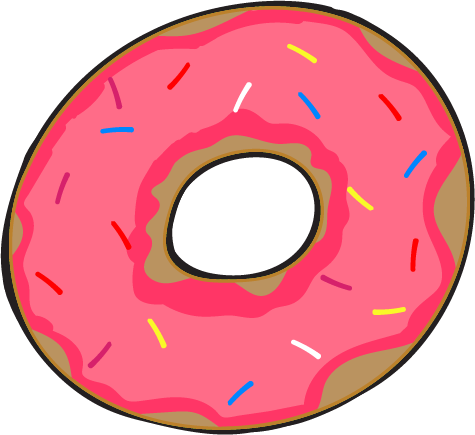
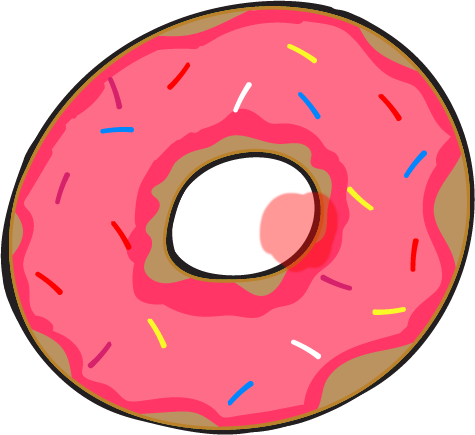
Test with remove

Changed region(s): [[0.5305, 0.4184, 0.7074, 0.6276]]

diff --git a/core/src/fr/formiko/tests/BlendGame.java b/core/src/fr/formiko/tests/BlendGame.java
@@ -1,69 +1,122 @@
 package fr.formiko.tests;
 
+import java.util.ArrayList;
+import java.util.List;
 import com.badlogic.gdx.ApplicationAdapter;
 import com.badlogic.gdx.Gdx;
+import com.badlogic.gdx.graphics.Color;
 import com.badlogic.gdx.graphics.GL20;
+import com.badlogic.gdx.graphics.Pixmap;
 import com.badlogic.gdx.graphics.Texture;
+import com.badlogic.gdx.graphics.g2d.Sprite;
 import com.badlogic.gdx.graphics.g2d.SpriteBatch;
+import com.badlogic.gdx.graphics.glutils.FrameBuffer;
+import com.badlogic.gdx.graphics.glutils.ShapeRenderer;
+import com.badlogic.gdx.graphics.glutils.ShapeRenderer.ShapeType;
 import com.badlogic.gdx.utils.ScreenUtils;
 
 public class BlendGame extends ApplicationAdapter {
 	SpriteBatch spriteBatch;
 	Texture donut;
 	Texture visible;
+	List<Integer> times = new ArrayList<>();
+	Pixmap pixmap;
+	Pixmap pxmVisible;
+	private ShapeRenderer shapeRenderer;
+	private FrameBuffer frameBuffer;
+	private Sprite mask;
 
 	@Override
 	public void create() {
-		spriteBatch = new SpriteBatch();
+		shapeRenderer = new ShapeRenderer();
+		shapeRenderer.setAutoShapeType(true);
+		Gdx.gl20.glLineWidth(2);
 		donut = new Texture("donut.png");
 		visible = new Texture("visible.png");
+		mask = new Sprite(visible);
+
+		frameBuffer = new FrameBuffer(Pixmap.Format.RGBA8888, Gdx.graphics.getWidth(), Gdx.graphics.getHeight(), false);
+
+		spriteBatch = new SpriteBatch();
+	}
+	private void drawCircles() {
+
+		/* An example circle, remember to flush before changing the blending function */
+		// shapeRenderer.setColor(Color.RED);
+		// shapeRenderer.circle(200, 200, 100);
+		// shapeRenderer.flush();
+		Gdx.gl.glBlendFunc(GL20.GL_SRC_ALPHA, GL20.GL_ONE_MINUS_SRC_ALPHA);
+		spriteBatch.begin();
+		spriteBatch.draw(donut, 0, 0);
+		spriteBatch.draw(donut, 30, 0);
+
+		/* We'll need blending enabled for the technique to work */
+		Gdx.gl.glEnable(GL20.GL_BLEND);
+
+		/*
+		 * With this blending function, wherever we draw pixels next
+		 * we will actually remove previously drawn pixels.
+		 */
+		spriteBatch.flush();
+		Gdx.gl.glBlendFuncSeparate(GL20.GL_ZERO, GL20.GL_ZERO, GL20.GL_ONE_MINUS_SRC_ALPHA, GL20.GL_ONE_MINUS_DST_ALPHA);
+		// shapeRenderer.circle(300, 200, 70);
+		// shapeRenderer.circle(100, 200, 35);
+		// shapeRenderer.flush();
+		// spriteBatch.draw(visible, 0, 0);
+		mask.draw(spriteBatch);
+		spriteBatch.flush();
+		spriteBatch.end();
+
+		/* Restore defaults. */
+		Gdx.gl.glDisable(GL20.GL_BLEND);
+
+		/*
+		 * The default blend function in case we need standard blending elsewhere.
+		 * Gdx.gl.glBlendFunc(GL20.GL_SRC_ALPHA, GL20.GL_ONE_MINUS_SRC_ALPHA);
+		 */
+	}
+
+	private void drawContours() {
+		shapeRenderer.set(ShapeType.Line);
+
+		/* Contour of the masked circle */
+		shapeRenderer.setColor(Color.GREEN);
+		shapeRenderer.circle(200, 200, 100);
+
+		/* Contour of the masks */
+		shapeRenderer.setColor(Color.CYAN);
+		shapeRenderer.circle(300, 200, 70);
+		shapeRenderer.circle(100, 200, 35);
 	}
 
 	@Override
 	public void render() {
-		ScreenUtils.clear(0, 1, 0, 1);
+		long time = System.currentTimeMillis();
+		ScreenUtils.clear(Color.GREEN);
+
+		frameBuffer.bind();
+		// shapeRenderer.begin();
+		// shapeRenderer.set(ShapeType.Filled);
+		drawCircles();
+		// drawContours();
+		// shapeRenderer.end();
+		frameBuffer.end();
+
+		Texture texture = frameBuffer.getColorBufferTexture();
+		Sprite sprite = new Sprite(texture);
+		sprite.flip(false, true);
+
 		spriteBatch.begin();
-
-
-		// for the mask
-		Gdx.gl.glColorMask(false, false, false, true);
-		// spriteBatch.setBlendFunction(GL20.GL_ONE, GL20.GL_ZERO);
-		// spriteBatch.draw(visible, 0, 0);
-		// spriteBatch.flush();
-		/* Change the blending function for our alpha map. */
-		spriteBatch.setBlendFunction(GL20.GL_ONE, GL20.GL_ZERO);
-
-		/* Draw alpha masks. */
-		spriteBatch.draw(visible, 0, 0);
-
-		/* This blending function makes it so we subtract instead of adding to the alpha map. */
-		spriteBatch.setBlendFunction(GL20.GL_ZERO, GL20.GL_SRC_ALPHA);
-
-		/* Remove the masked sprite's inverse alpha from the map. */
-		spriteBatch.draw(donut, 0, 0);
-
-		/* Flush the batch to the GPU. */
-		spriteBatch.flush();
-
-
-		// masked
-		Gdx.gl.glColorMask(true, true, true, true);
-		/* Change the blending function so the rendered pixels alpha blend with our alpha map. */
-		spriteBatch.setBlendFunction(GL20.GL_DST_ALPHA, GL20.GL_ONE_MINUS_DST_ALPHA);
-
-		/* Draw our sprite to be masked. */
-		spriteBatch.draw(donut, 0, 0);
-
-		/* Remember to flush before changing GL states again. */
-		spriteBatch.flush();
-
-
+		sprite.draw(spriteBatch);
 		spriteBatch.end();
+		times.add((int) (System.currentTimeMillis() - time));
 	}
 
 	@Override
 	public void dispose() {
-		spriteBatch.dispose();
-		donut.dispose();
+		// spriteBatch.dispose();
+		// donut.dispose();
+		// visible.dispose();
+		System.out.println(times.stream().mapToInt(Integer::intValue).summaryStatistics().getAverage() + " ms in average.");
 	}
 }
